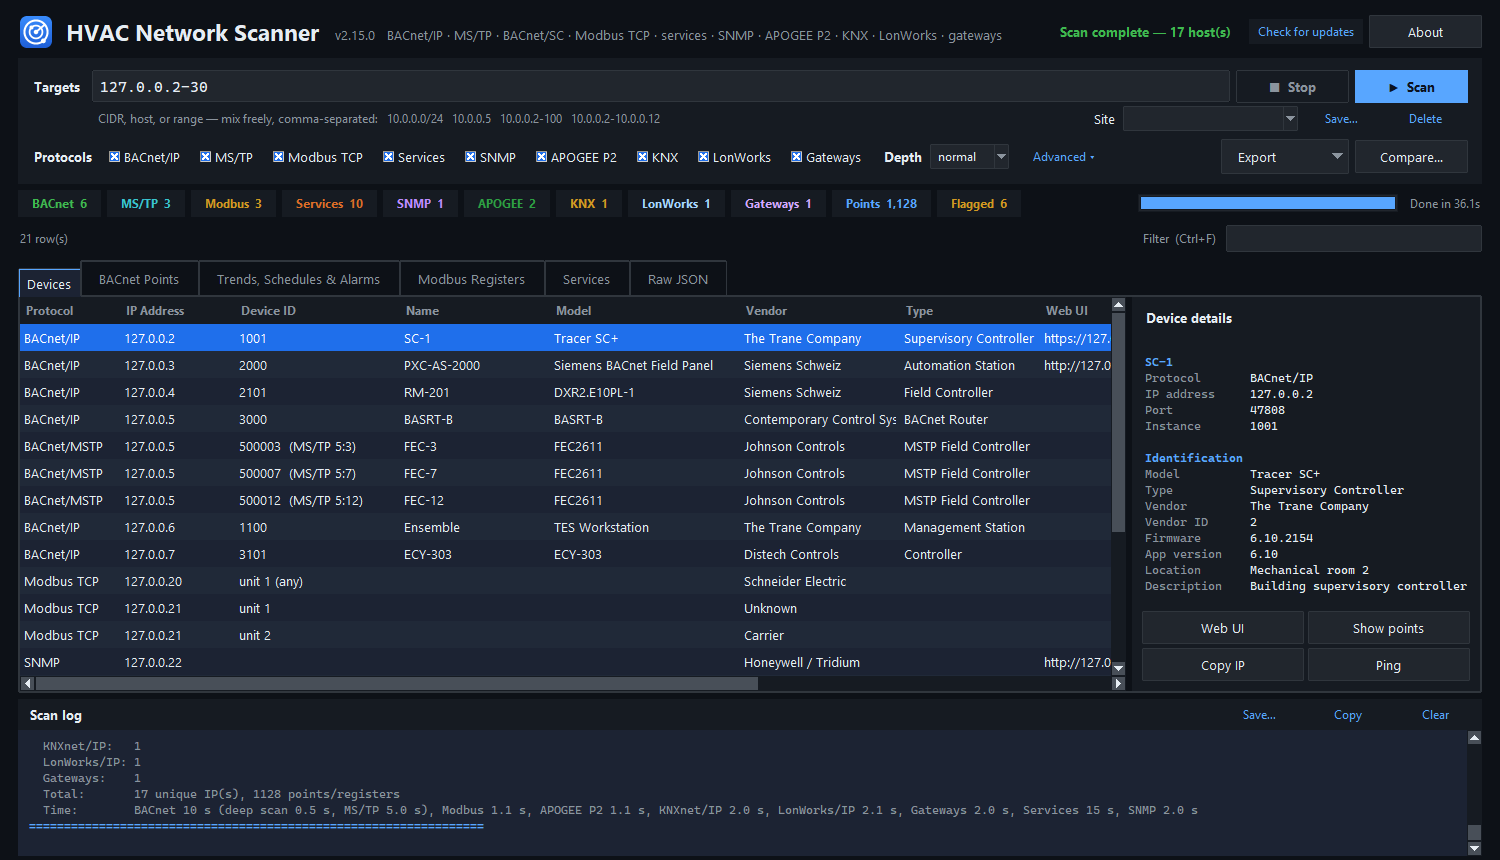
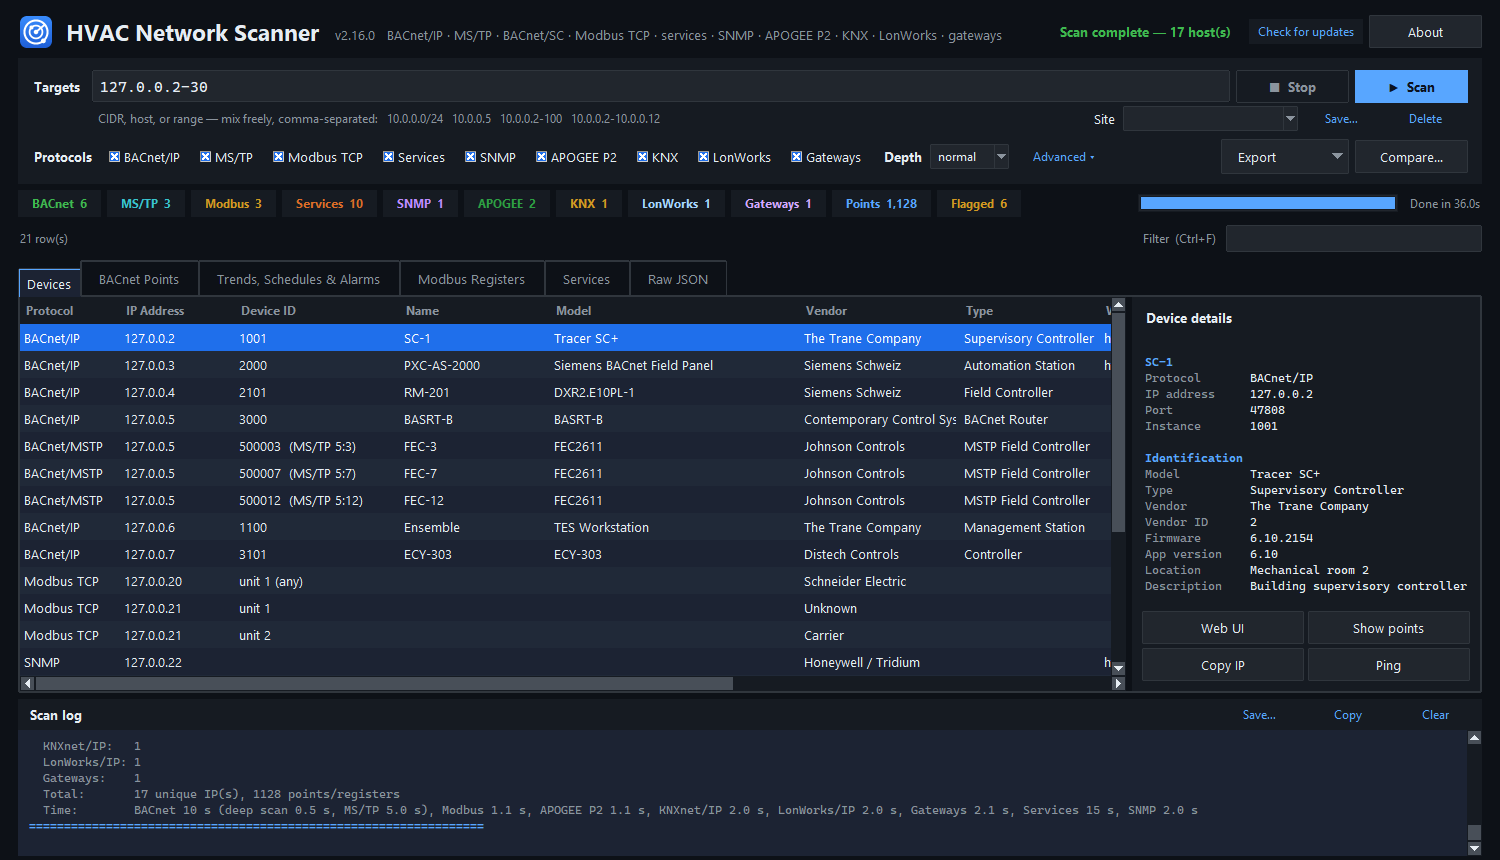
Release 2.16.0
Date CHANGELOG [2.16.0] and README What's new (2026-11-21); screenshots retaken against the simulator (header shows v2.16.0, wider Model column).

Changed region(s): [[0.4907, 0.3628, 0.736, 0.8163], [0.7053, 0.7558, 0.736, 0.786]]

diff --git a/CHANGELOG.md b/CHANGELOG.md
@@ -5,6 +5,8 @@ Format based on [Keep a Changelog](https://keepachangelog.com/en/1.1.0/).
 
 ## [Unreleased]
 
+## [2.16.0] — 2026-11-21
+
 Fixes from a hands-on review of 2.15.0 (2026-11-21), checked against one
 site's scan logs, and the first of its speed-ups.
 

diff --git a/README.md b/README.md
@@ -371,7 +371,7 @@ Exit codes:
 
 ## What's new
 
-### v2.16.0
+### v2.16.0 (2026-11-21)
 
 - **Points survive the time limit and Stop**: a device that hit its
   per-device time limit, or was in flight when Stop was pressed, was filed
